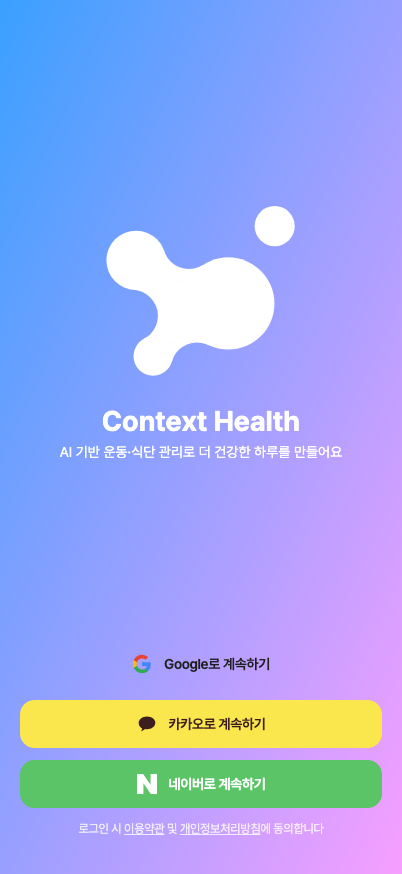
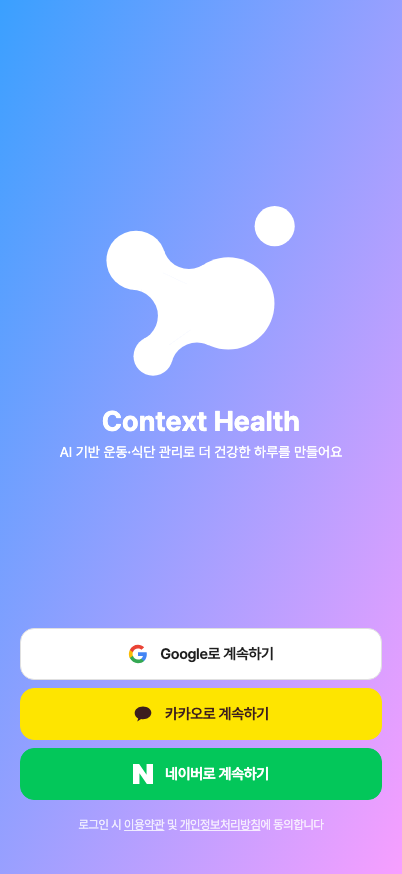
Context Health: 로그인 버튼을 이전 스타일로 복원
Google 흰 배경·테두리, 카카오/네이버 기존 색과 아이콘, 높이 52, 간격 8로 되돌림.

Changed region(s): [[0.0299, 0.7105, 0.9552, 0.9577]]

diff --git a/Context health/src/components/screens/LoginScreen.jsx b/Context health/src/components/screens/LoginScreen.jsx
@@ -304,27 +304,27 @@ export default function LoginScreen({ onLogin, authReady = true }) {
       id: 'google',
       label: 'Google로 계속하기',
       icon: <GoogleIcon />,
-      bg: 'transparent',
+      bg: '#fff',
       text: '#1f1f1f',
-      border: 'transparent',
+      border: '#e0e0e0',
       handler: handleGoogle,
     },
     {
       id: 'kakao',
       label: '카카오로 계속하기',
       icon: <KakaoIcon />,
-      bg: '#FAE64D',
+      bg: '#FEE500',
       text: '#3C1E1E',
-      border: '#FAE64D',
+      border: '#FEE500',
       handler: handleKakao,
     },
     {
       id: 'naver',
       label: '네이버로 계속하기',
-      icon: null, // 시안대로 아이콘 없이 글자만
-      bg: '#5AC467',
+      icon: <NaverIcon />,
+      bg: '#03C75A',
       text: '#fff',
-      border: '#5AC467',
+      border: '#03C75A',
       handler: handleNaver,
     },
   ];
@@ -375,10 +375,10 @@ export default function LoginScreen({ onLogin, authReady = true }) {
 
       {/* 하단 로그인 버튼 영역 */}
       <div
-        className="relative z-10 px-5 flex flex-col gap-3"
+        className="relative z-10 px-5 flex flex-col gap-2"
         aria-hidden={!formIn}
         style={{
-          paddingBottom: 'max(36px, calc(env(safe-area-inset-bottom) + 16px))',
+          paddingBottom: 'max(40px, calc(env(safe-area-inset-bottom) + 16px))',
           opacity: formIn ? 1 : 0,
           transform: formIn ? 'none' : 'translateY(16px)',
           pointerEvents: formIn ? 'auto' : 'none',
@@ -413,7 +413,7 @@ export default function LoginScreen({ onLogin, authReady = true }) {
                 pressScale={0.98}
                 onClick={handler}
                 disabled={!!loading || !formIn}
-                className="w-full h-[48px] flex items-center justify-center gap-3 rounded-[14px] font-pretendard font-semibold text-[14px] tracking-[-0.35px] disabled:opacity-60"
+                className="w-full h-[52px] flex items-center justify-center gap-3 rounded-[14px] font-pretendard font-semibold text-[15px] tracking-[-0.375px] disabled:opacity-60"
                 style={{ background: bg, color: text, border: `1.5px solid ${border}` }}
               >
                 {loading === id ? (
@@ -431,7 +431,7 @@ export default function LoginScreen({ onLogin, authReady = true }) {
         )}
 
         {!isInAppBrowser && (
-          <p className="font-pretendard text-[12px] leading-[18px] text-white/80 text-center tracking-[-0.3px]">
+          <p className="font-pretendard text-[12px] leading-[18px] text-white/80 text-center tracking-[-0.3px] mt-2">
             로그인 시 <button type="button" className="underline" onClick={() => setActiveLegal('terms')}>이용약관</button>
             {' 및 '}
             <button type="button" className="underline" onClick={() => setActiveLegal('privacy')}>개인정보처리방침</button>에 동의합니다
